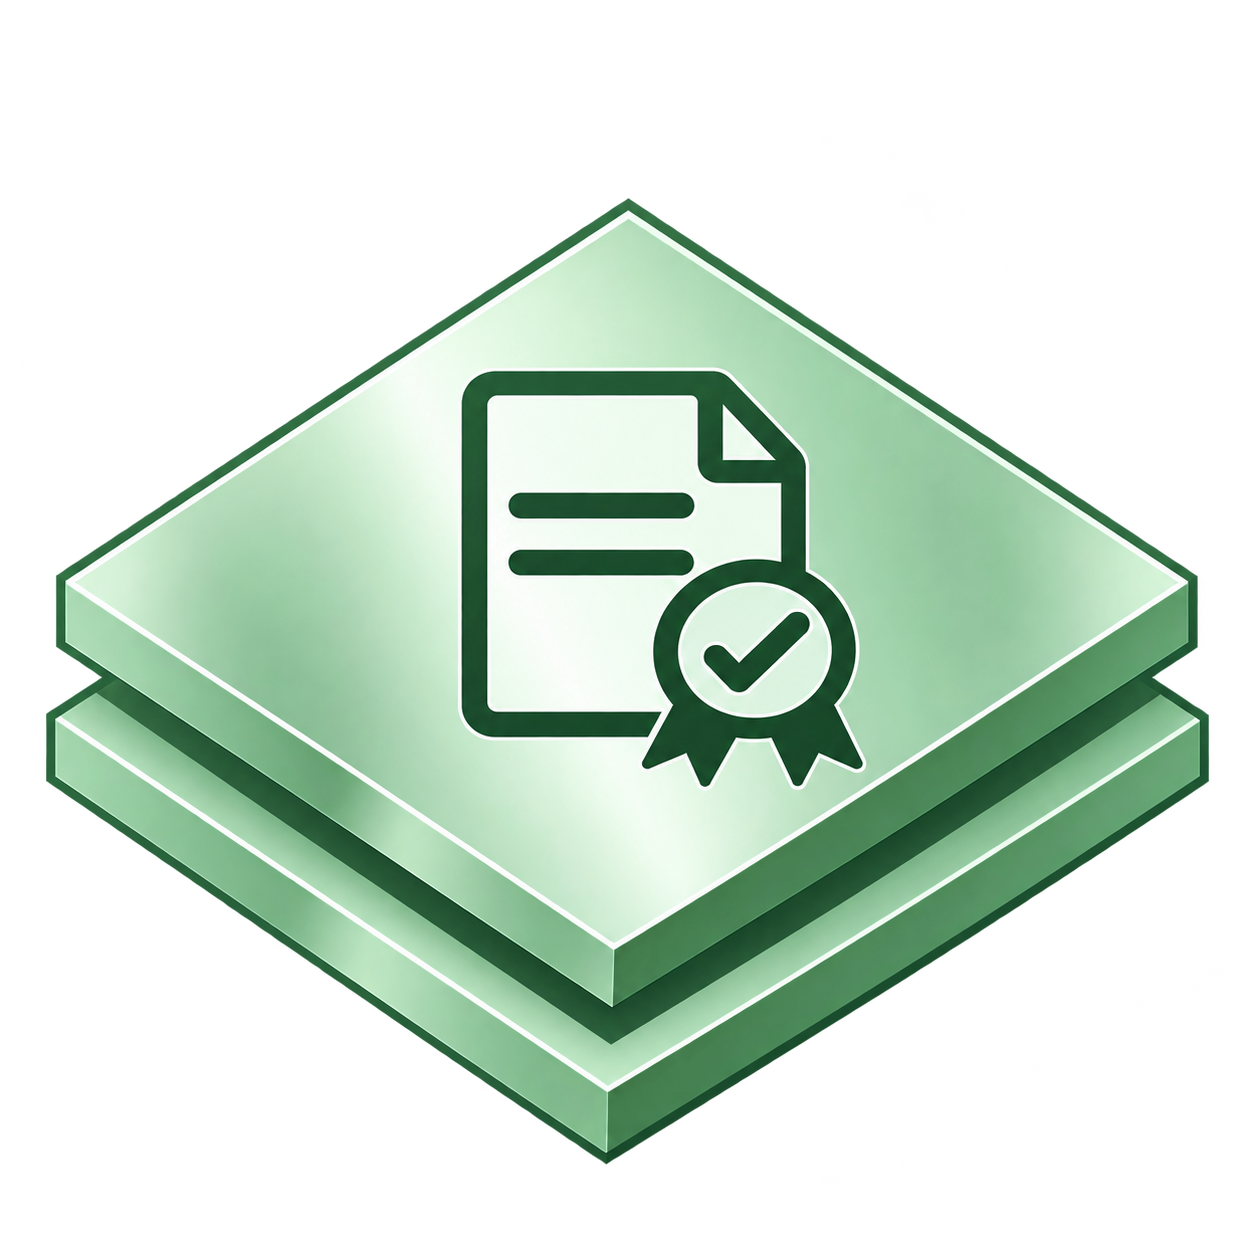
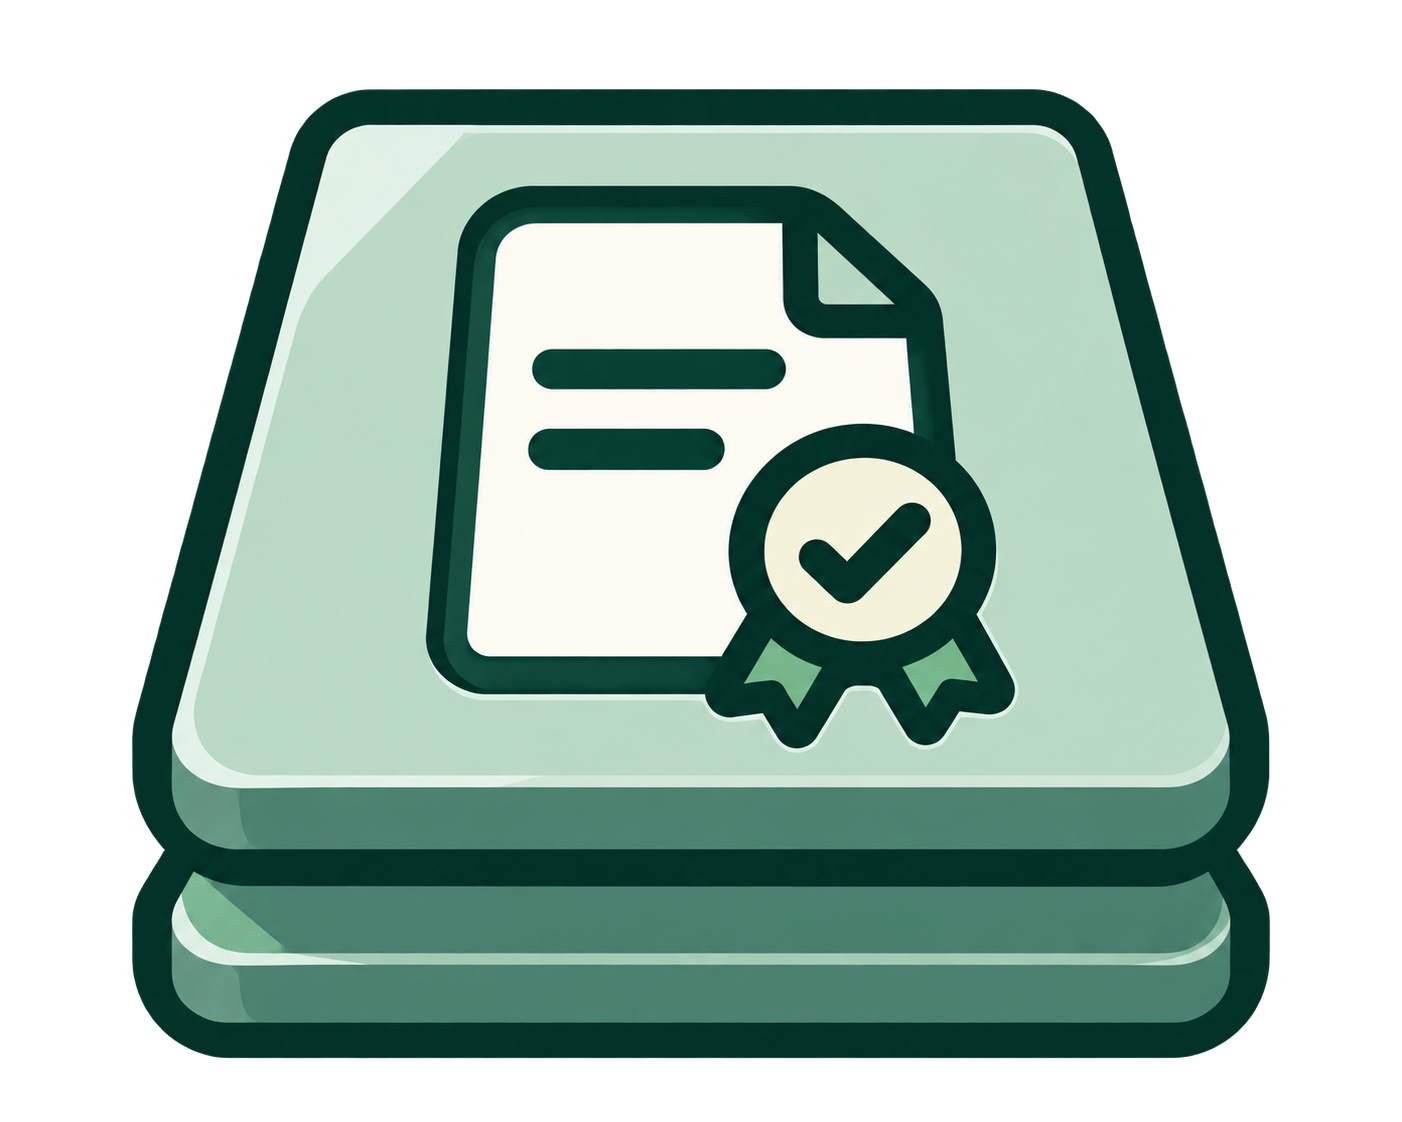
Enhance certificate request handling by adding inspectedCertificatesCount field and related logic. Updated service and frontend components to calculate and display the count of inspected certificates for conference requests. Improved request status management to accommodate new conference-related st

diff --git a/frontend/src/lib/certificate-request-labels.ts b/frontend/src/lib/certificate-request-labels.ts
@@ -1,7 +1,58 @@
-import type { CertificateRequestStatus } from '@/types/certificate-request';
+import type {
+  CertificateRequest,
+  CertificateRequestStatus,
+} from '@/types/certificate-request';
+
+export type NfConferenceStatus =
+  | 'PENDENTE'
+  | 'EM_CONFERENCIA'
+  | 'CONCLUIDA'
+  | 'CANCELADA';
+
+export function getInspectedCertificatesCount(
+  request: CertificateRequest,
+): number {
+  if (typeof request.inspectedCertificatesCount === 'number') {
+    return request.inspectedCertificatesCount;
+  }
+
+  const lots = new Set(
+    request.attachments
+      ?.filter(
+        (attachment) =>
+          attachment.type === 'IMPRESSAO_CONFERENCIA' &&
+          attachment.inspection != null &&
+          attachment.lotIndex != null,
+      )
+      .map((attachment) => attachment.lotIndex) ?? [],
+  );
+
+  return lots.size;
+}
+
+export function getNfConferenceStatus(
+  request: CertificateRequest,
+): NfConferenceStatus {
+  if (request.status === 'CANCELADA') {
+    return 'CANCELADA';
+  }
+
+  const compared = getInspectedCertificatesCount(request);
+  const required = request.expectedCertificates;
+
+  if (required > 0 && compared >= required) {
+    return 'CONCLUIDA';
+  }
+
+  if (compared > 0) {
+    return 'EM_CONFERENCIA';
+  }
+
+  return 'PENDENTE';
+}
 
 export function certificateRequestStatusLabel(
-  status: CertificateRequestStatus,
+  status: CertificateRequestStatus | NfConferenceStatus,
 ): string {
   switch (status) {
     case 'CADASTRADA':
@@ -10,6 +61,10 @@ export function certificateRequestStatusLabel(
       return 'Aguardando compras';
     case 'AGUARDANDO_FORNECEDOR':
       return 'Aguardando fornecedor';
+    case 'PENDENTE':
+      return 'Pendente';
+    case 'EM_CONFERENCIA':
+      return 'Em conferência';
     case 'CONCLUIDA':
       return 'Concluída';
     case 'CANCELADA':
@@ -18,7 +73,7 @@ export function certificateRequestStatusLabel(
 }
 
 export function certificateRequestStatusClassName(
-  status: CertificateRequestStatus,
+  status: CertificateRequestStatus | NfConferenceStatus,
 ): string {
   switch (status) {
     case 'CADASTRADA':
@@ -26,6 +81,10 @@ export function certificateRequestStatusClassName(
     case 'AGUARDANDO_COMPRAS':
       return 'bg-amber-100 text-amber-900 border-amber-200';
     case 'AGUARDANDO_FORNECEDOR':
+      return 'bg-sky-100 text-sky-900 border-sky-200';
+    case 'PENDENTE':
+      return 'bg-amber-100 text-amber-900 border-amber-200';
+    case 'EM_CONFERENCIA':
       return 'bg-sky-100 text-sky-900 border-sky-200';
     case 'CONCLUIDA':
       return 'bg-emerald-100 text-emerald-900 border-emerald-200';

diff --git a/frontend/src/components/requests/certificate-requests-table.tsx b/frontend/src/components/requests/certificate-requests-table.tsx
@@ -9,14 +9,18 @@ import {
   TableHeader,
   TableRow,
 } from '@/components/ui/table';
-import { formatRequestDate } from '@/lib/certificate-request-labels';
+import {
+  formatRequestDate,
+  getInspectedCertificatesCount,
+  getNfConferenceStatus,
+} from '@/lib/certificate-request-labels';
 import { cn } from '@/lib/utils';
 import type { CertificateRequest } from '@/types/certificate-request';
 
 type CertificateRequestsTableProps = {
   requests: CertificateRequest[];
   detailPath: (requestId: number) => string;
-  variant: 'stock' | 'purchase';
+  variant: 'stock' | 'purchase' | 'conference';
 };
 
 export function CertificateRequestsTable({
@@ -42,10 +46,13 @@ export function CertificateRequestsTable({
           <TableHead>Fornecedor</TableHead>
           <TableHead>Nº NF</TableHead>
           <TableHead>Lotes</TableHead>
+          {variant === 'conference' ? (
+            <TableHead>Comparados</TableHead>
+          ) : null}
           <TableHead>Data NF</TableHead>
           <TableHead>Status</TableHead>
           <TableHead>
-            {variant === 'stock' ? 'Abertura' : 'Solicitante'}
+            {variant === 'purchase' ? 'Solicitante' : 'Abertura'}
           </TableHead>
         </TableRow>
       </TableHeader>
@@ -62,14 +69,26 @@ export function CertificateRequestsTable({
             <TableCell>{request.supplier.name}</TableCell>
             <TableCell>{request.invoiceNumber}</TableCell>
             <TableCell>{request.expectedCertificates}</TableCell>
+            {variant === 'conference' ? (
+              <TableCell className="tabular-nums">
+                {getInspectedCertificatesCount(request)}/
+                {request.expectedCertificates}
+              </TableCell>
+            ) : null}
             <TableCell>{formatRequestDate(request.invoiceDate)}</TableCell>
             <TableCell>
-              <RequestStatusBadge status={request.status} />
+              <RequestStatusBadge
+                status={
+                  variant === 'conference'
+                    ? getNfConferenceStatus(request)
+                    : request.status
+                }
+              />
             </TableCell>
             <TableCell>
-              {variant === 'stock'
-                ? formatRequestDate(request.submittedAt)
-                : (request.createdByName ?? 'Operador de estoque')}
+              {variant === 'purchase'
+                ? (request.createdByName ?? 'Operador de estoque')
+                : formatRequestDate(request.submittedAt)}
             </TableCell>
           </TableRow>
         ))}

diff --git a/backend/src/services/certificate-request.service.ts b/backend/src/services/certificate-request.service.ts
@@ -91,6 +91,17 @@ function toPublicRequest(request: RequestWithRelations) {
     (attachment) => attachment.type === AttachmentType.CERTIFICADO,
   ).length;
 
+  const inspectedCertificatesCount = new Set(
+    request.attachments
+      .filter(
+        (attachment) =>
+          attachment.type === AttachmentType.IMPRESSAO_CONFERENCIA &&
+          attachment.inspection != null &&
+          attachment.lotIndex != null,
+      )
+      .map((attachment) => attachment.lotIndex),
+  ).size;
+
   return {
     id: request.id,
     supplier: {
@@ -130,6 +141,7 @@ function toPublicRequest(request: RequestWithRelations) {
       occurredAt: event.occurredAt.toISOString(),
     })),
     attachedCertificatesCount,
+    inspectedCertificatesCount,
   };
 }
 

diff --git a/frontend/src/components/requests/request-status-badge.tsx b/frontend/src/components/requests/request-status-badge.tsx
@@ -1,4 +1,5 @@
 import type { CertificateRequestStatus } from '@/types/certificate-request';
+import type { NfConferenceStatus } from '@/lib/certificate-request-labels';
 import {
   certificateRequestStatusClassName,
   certificateRequestStatusLabel,
@@ -6,7 +7,7 @@ import {
 import { cn } from '@/lib/utils';
 
 type RequestStatusBadgeProps = {
-  status: CertificateRequestStatus;
+  status: CertificateRequestStatus | NfConferenceStatus;
   className?: string;
 };
 

diff --git a/frontend/src/pages/notas-fiscais-page.tsx b/frontend/src/pages/notas-fiscais-page.tsx
@@ -43,7 +43,7 @@ export function NotasFiscaisPage() {
         <div className="overflow-hidden rounded-2xl bg-card shadow-sm ring-1 ring-border/60">
           <CertificateRequestsTable
             requests={requestsQuery.data}
-            variant="stock"
+            variant="conference"
             detailPath={(id) => `/notas-fiscais/${id}`}
           />
         </div>

diff --git a/backend/src/schemas/certificate-request.schemas.ts b/backend/src/schemas/certificate-request.schemas.ts
@@ -55,6 +55,7 @@ export const certificateRequestSchema = z.object({
   attachments: z.array(attachmentSchema).optional(),
   historyEvents: z.array(historyEventSchema).optional(),
   attachedCertificatesCount: z.number().optional(),
+  inspectedCertificatesCount: z.number().optional(),
 });
 
 export type PublicCertificateRequest = z.infer<typeof certificateRequestSchema>;

diff --git a/frontend/src/types/certificate-request.ts b/frontend/src/types/certificate-request.ts
@@ -78,6 +78,7 @@ export type CertificateRequest = {
   attachments?: RequestAttachment[];
   historyEvents?: RequestHistoryEvent[];
   attachedCertificatesCount?: number;
+  inspectedCertificatesCount?: number;
 };
 
 export type CreateCertificateRequestPayload = {
